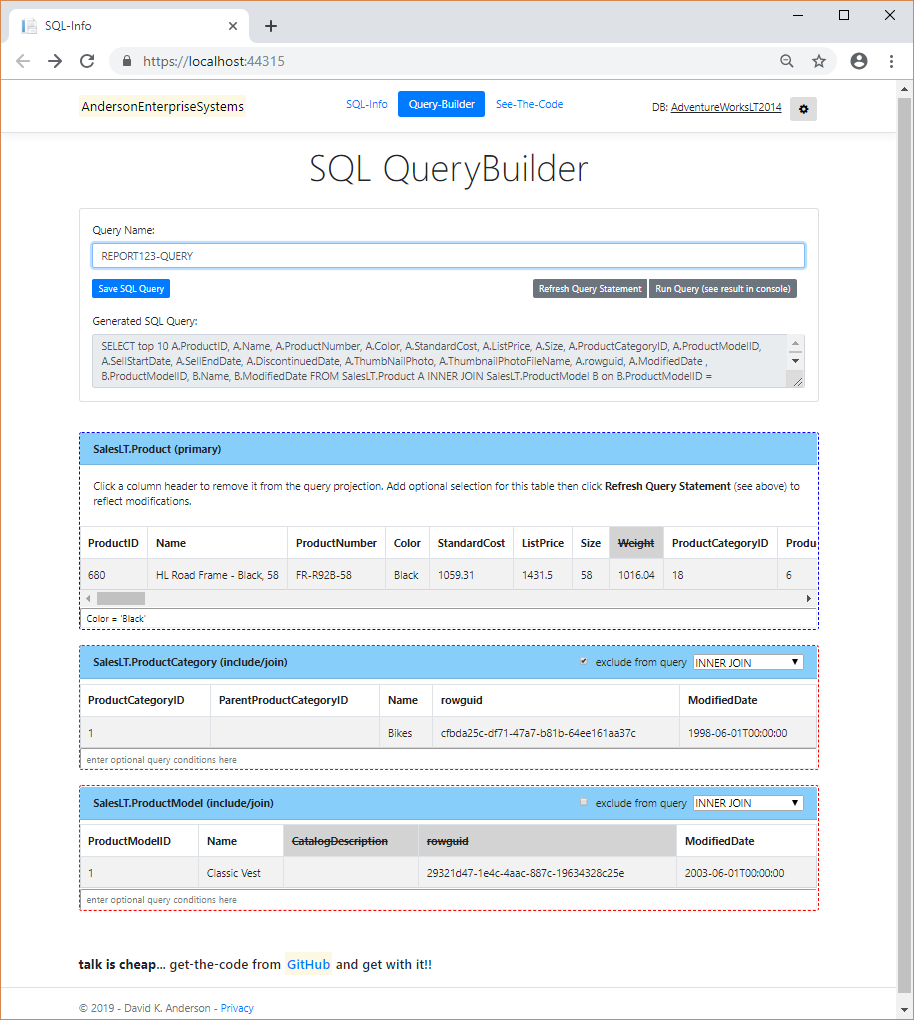
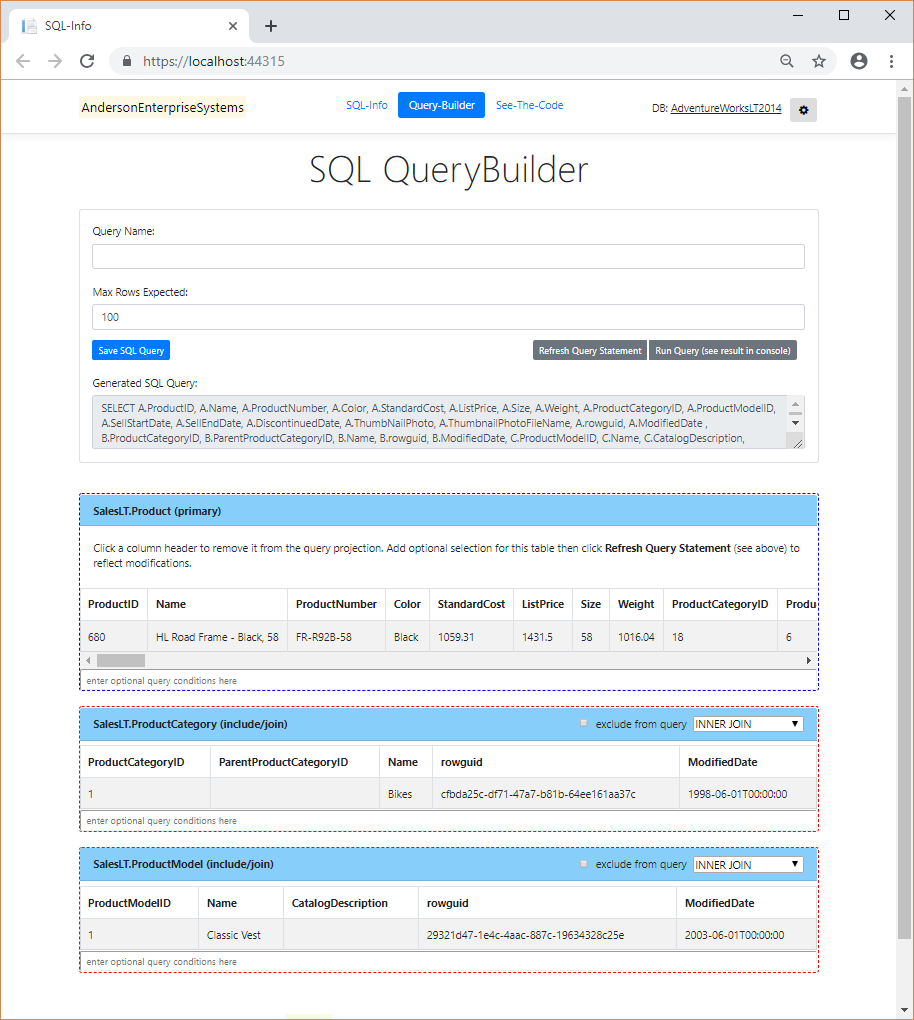
wip readme

diff --git a/README.md b/README.md
@@ -6,19 +6,21 @@ Unique interface is built by reading the SQL InformationSchema to determine tabl
 
 ### Pick a Table
 
-Related tables are automatically selected and will be included in your query. Don't worry, you can deselect them on the next page.
+After selecting a base table for your query, related tables are automatically selected based on declaritive references found in your schema. Those FK references will be included in your query using a JOIN. Don't worry, you can exclude any of them on the next page.
 
 ![InfoView](infoview.png?raw=true)
 
 ### Tweak and Save the Generated Query
 
-Sample data is queried from your database to make it easy to include just what you need for the query. Click **Save SQL Query** to save your query to the SQL query store (table).
+Sample data is queried from your database to make it easy to include just what you need for the query. Exclude a related table if it is not of interest and/or exclude columns that are also not of interest. Click the **Run Query** button to see which rows will be returned from your query as defined.
+
+Click **Save SQL Query** to save your query to the SQL query store (table) and make it available for use in any application that wants to use that queried result.
 
 ![QueryView](queryview.png?raw=true)
 
 ### See The Code
 
-The cloned solution has a class library with several helpful classes to work with your query. This example shows how the **QueryRunnerController** class (from .Net Controller) can be used to surface your query in a client application.
+The cloned solution has a class library with several helpful classes to work with your query. This example shows how the **QueryRunnerController** class (from .Net Controller) can be used to surface your query in a client application. **MUCH** more coming here... stay tuned!!
 
 ![CodeView](codeview.png?raw=true)
 
